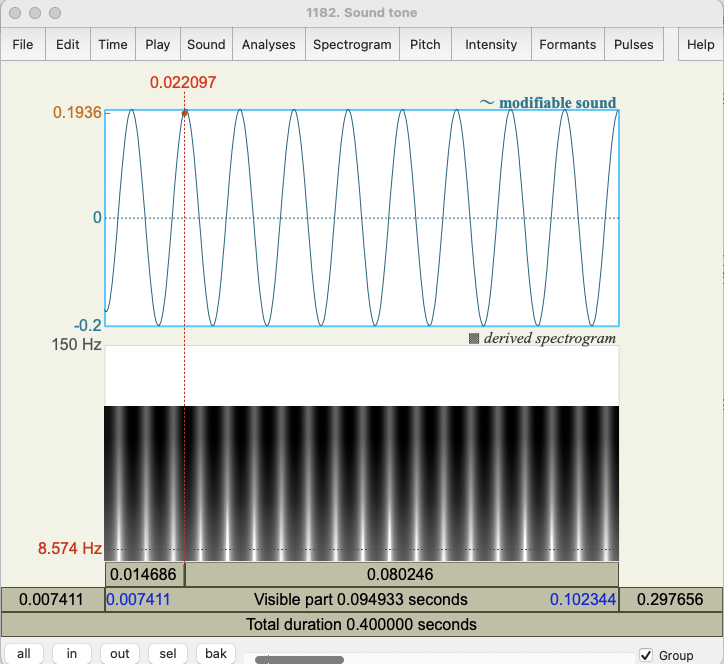
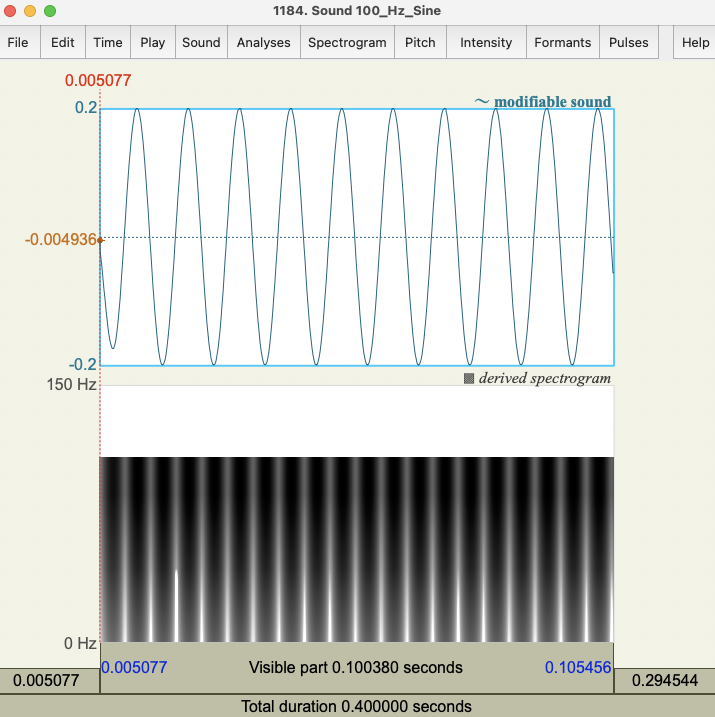
updated 100 hz sine image

diff --git a/slides/export/index.html b/slides/export/index.html
@@ -162,23 +162,22 @@ Mouse cochlea
             <section >
                 <h2>Hearing</h2>
 <img src="https://upload.wikimedia.org/wikipedia/commons/thumb/b/bf/Tidens_naturlære_fig40.png/1280px-Tidens_naturlære_fig40.png" width="500"/>
+
             </section>
         
-
-    </section>
-    
-
-
-
-    
-    <section>
-        <section >
-            <h2>From moving air to neurotransmission</h2>
+            <section >
+                <h2>From moving air to neurotransmission</h2>
 <img src="https://github.com/ethanweed/praat-workshop/blob/main/images/NIH-Hearing.gif?raw=true" width=""/>
             </section>
         
             <section >
-                
+                <h2>Oscillations</h2>
+<img src="https://github.com/ethanweed/praat-workshop/blob/main/images/100-Hz-sine.png?raw=true" width="500"/>
+            </section>
+        
+            <section >
+                <h2>Spectral slice</h2>
+
             </section>
         
 
